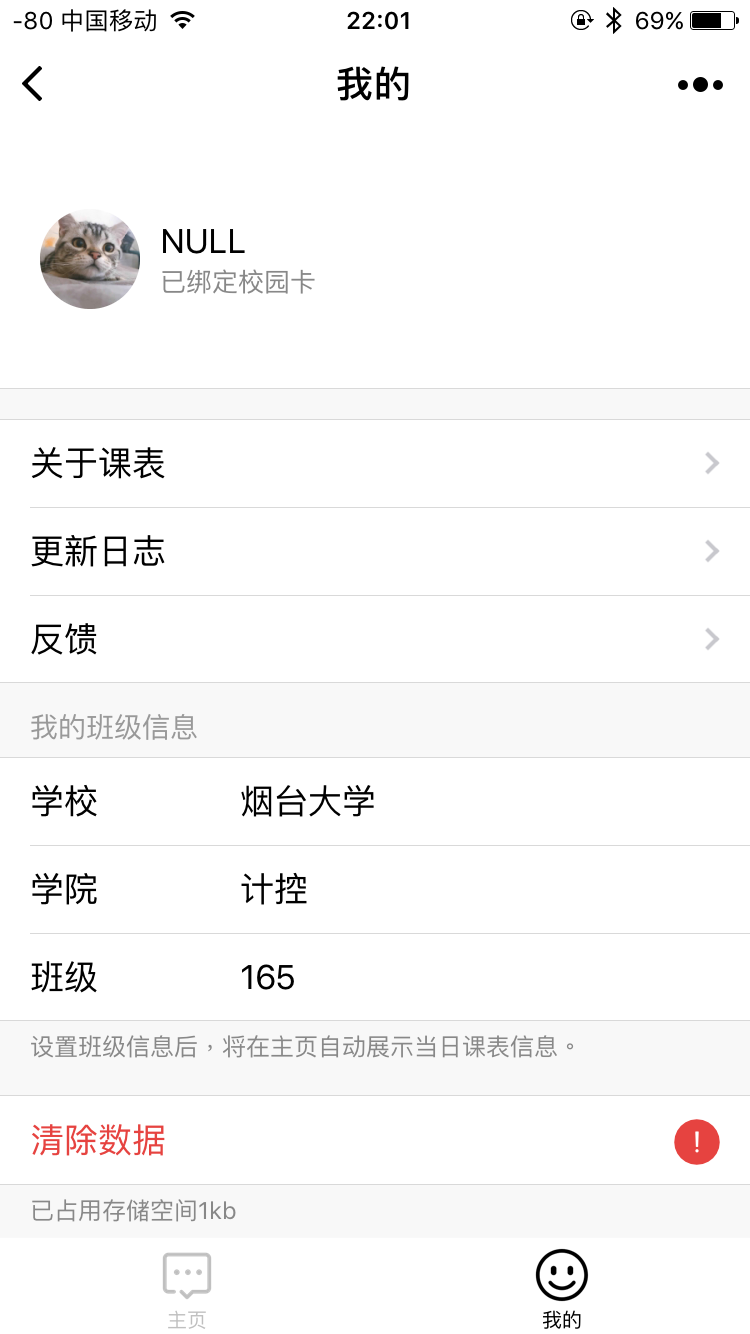
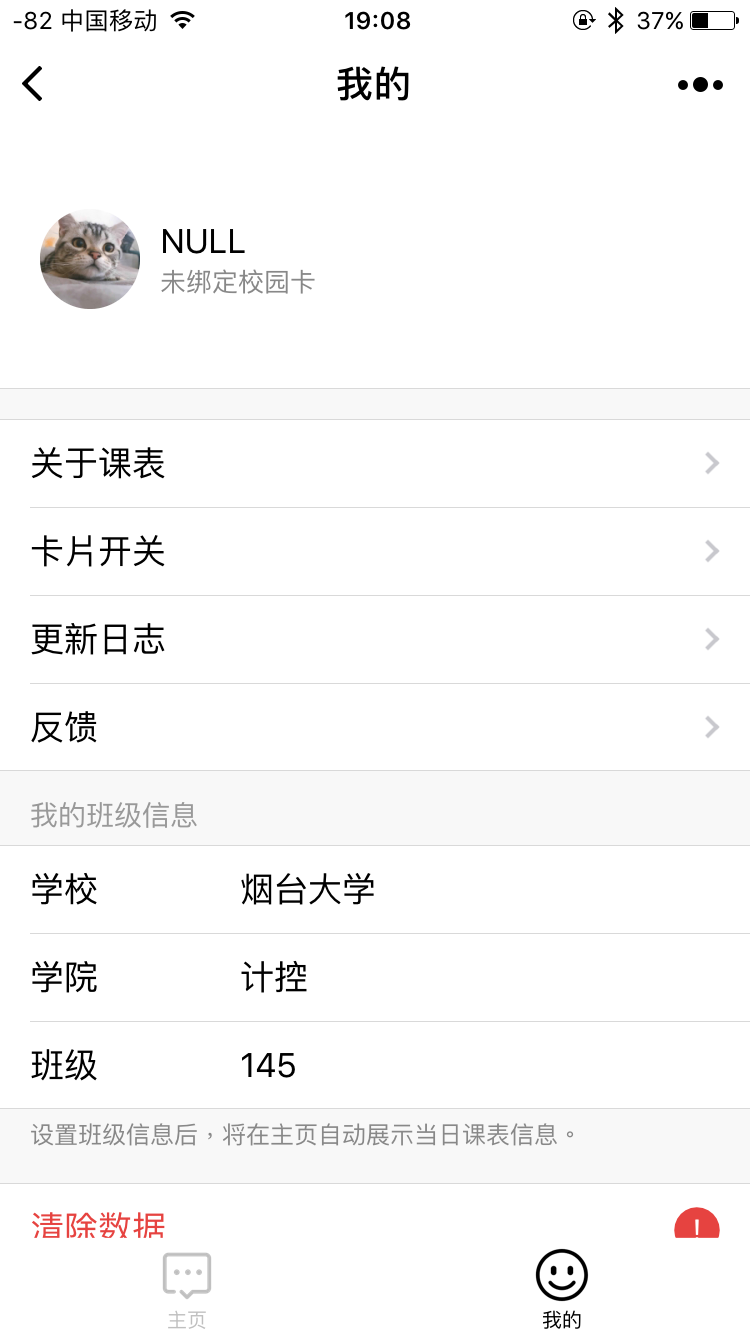
增加卡片开关

diff --git a/index.html b/index.html
@@ -64,8 +64,17 @@
                 <div class="row">
                     <div class="col-xs-12 col-sm-12 col-md-12 col-lg-12 text-center">
                         <h3>今日</h3>
-                        <p>「今日」视图由不同的卡片构成，你可以在不同的卡片中查看今日所有的信息。</p>
+                        <p>「今日」视图由不同的卡片构成，你可以在不同的卡片中查看今日所有的信息。<sup>1</sup></p>
                         <p></p>
+                    </div>
+                </div>
+                <div class="row today-item">
+                    <div class="col-xs-5 col-sm-5 col-md-5 col-lg-5">
+                        <img src="images/today-0.jpg" alt="" class="img-responsive today-card">
+                    </div>
+                    <div class="col-xs-7 col-sm-7 col-md-7 col-lg-7">
+                        <h4>0 今日卡片</h4>
+                        <p>「课表」的通知卡片，在特定节日中会显示，你也可以选择永久关闭。</p>
                     </div>
                 </div>
                 <div class="row today-item">
@@ -95,9 +104,32 @@
                         <p>当你在「我的」页面中绑定了我的班级信息后，今天的课程将在这里呈现出来。</p>
                     </div>
                 </div>
+                <div class="row">
+                    <div class="col-xs-7 col-sm-7 col-md-7 col-lg-7">
+                        <li class="list-unstyled"><sup>1</sup> v2.0.4版本起，你可以主动关闭所有你想隐藏的卡片。</li>
+                    </div>
+                </div>
+
             </div>
         </div>
 
+    </div>
+
+    <div class="section color-black animationEnd">
+        <div class="container">
+            <div class="div-h">
+                <div class="row">
+                    <div class="col-xs-6 col-sm-6 col-md-4 col-lg-4">
+                        <img src="images/new.jpg" alt="" class="img-responsive today-card">
+                    </div>
+                    <div class="col-xs-6 col-sm-6 col-md-8 col-lg-8" style="color: #ffffff">
+                        <h3>v2.0.4新功能</h3>
+                        <p>v2.0.4版本中，课表增加了一个新功能：可以隐藏或显示你希望查看的卡片。</p>
+                        <p class="readmore"><a href="http://mp.weixin.qq.com/s/JeYw-5bKFm_k_58QRo3a-w" target="_blank">了解更多新功能介绍»</a></p>
+                    </div>
+                </div>
+            </div>
+        </div>
     </div>
 
     <div class="section color-grey">
@@ -155,7 +187,6 @@
         </div>
     </div>
 
-    <!-- APP Section -->
     <div class="section color-white">
         <div class="div-h">
             <div class="container">
@@ -241,6 +272,12 @@
     <div class="section color-black collapse" style="color:#ffffff;" id="update-log">
         <div class="div-h">
             <div class="container">
+                <div class="update-item">
+                    <h4>v2.0.4</h4>
+                    <ul>
+                        <li>新增：增加卡片开关入口，可以隐藏不喜欢的卡片</li>
+                    </ul>
+                </div>
                 <div class="update-item">
                     <h4>v2.0.3</h4>
                     <ul>
